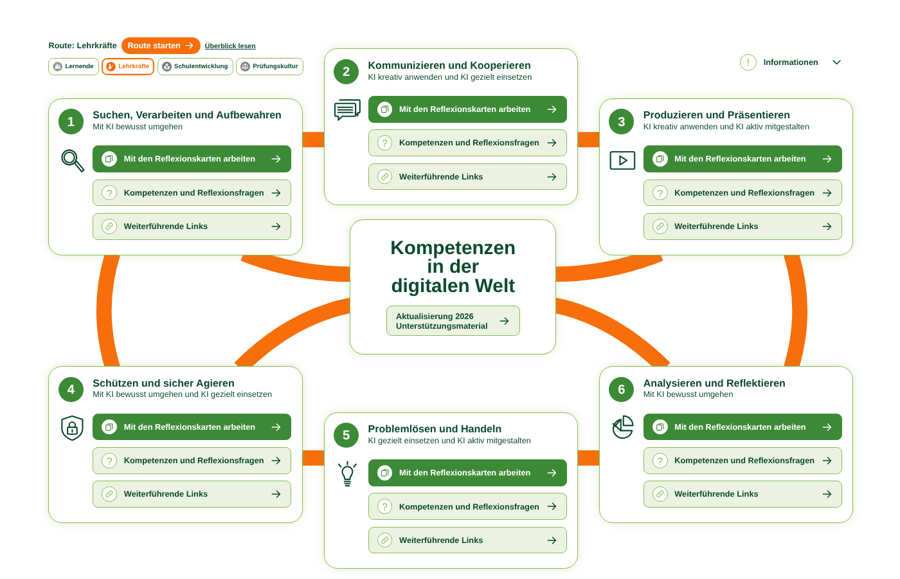
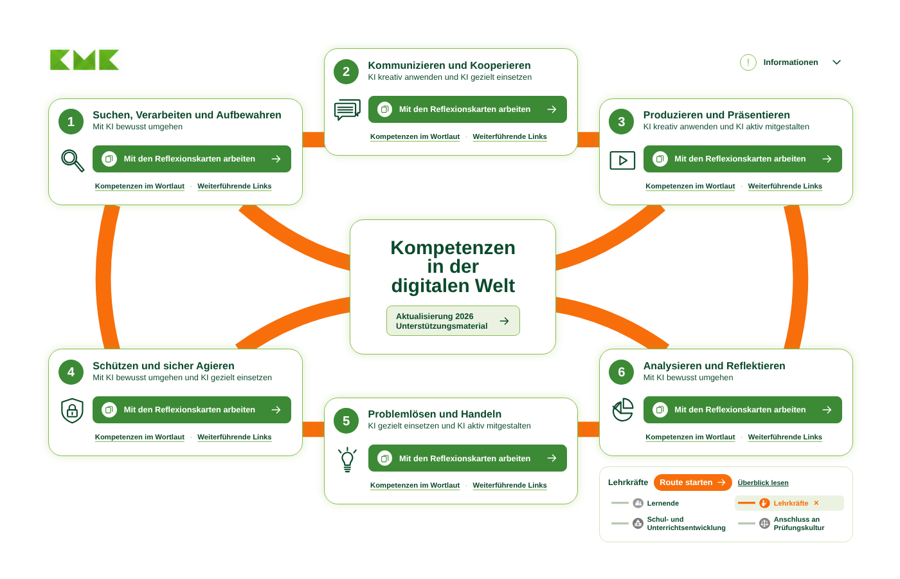
Inseln: ein Hauptbutton, darunter „Kompetenzen im Wortlaut“ und „Weiterführende Links“
Inseln wieder flacher, Wege angepasst; Anleitung und Informationen aktualisiert.

Claude-Session: https://claude.ai/code/session_012zyzsmAj4NRycghpwKmJHP

diff --git a/index.html b/index.html
@@ -12,16 +12,16 @@
 <p class="wisch-hinweis">Tipp: Die Landkarte lässt sich seitlich verschieben.</p>
 <div class="karte-buehne">
 <div class="karte">
-  <svg class="stege" viewBox="0 0 2300 1580" aria-hidden="true">
+  <svg class="stege" viewBox="0 0 2300 1420" aria-hidden="true">
     <g class="ring">
-      <path d="M760 338H830M1480 338H1550M760 1170H830M1480 1170H1550"/>
-      <path d="M268 636Q222 785 268 935"/>
-      <path d="M2042 636Q2088 785 2042 935"/>
+      <path d="M760 338H830M1480 338H1550M760 1095H830M1480 1095H1550"/>
+      <path d="M268 508Q218 700 268 890"/>
+      <path d="M2042 508Q2092 700 2042 890"/>
     </g>
-    <path d="M610 636Q745 690 895 690"/>
-    <path d="M1700 636Q1565 690 1420 690"/>
-    <path d="M600 935Q735 800 895 770"/>
-    <path d="M1712 935Q1575 800 1420 770"/>
+    <path d="M610 508Q745 625 895 662"/>
+    <path d="M1700 508Q1565 625 1420 662"/>
+    <path d="M600 890Q735 792 895 768"/>
+    <path d="M1712 890Q1575 792 1420 768"/>
   </svg>
   <a class="kmk-logo" href="https://www.kmk.org" target="_blank" rel="noopener noreferrer"><img src="bilder/kmk-logo.png" alt="Kultusministerkonferenz"></a>
   <nav class="routen" aria-label="Routen durch alle Kompetenzbereiche">
@@ -51,8 +51,7 @@
     <span class="symbol"><svg viewBox="0 0 64 64" aria-hidden="true"><g fill="none" stroke="currentColor" stroke-width="3.2" stroke-linecap="round" stroke-linejoin="round"><circle cx="25" cy="25" r="17"/><circle cx="25" cy="25" r="12"/><path d="M37 38l5-4 17 20-5 4z"/></g></svg></span>
     <div class="knoepfe">
       <a class="knopf knopf-app" href="https://ingerfeldundlaube.github.io/KI-Kompetenzen/kompetenzbereich-1/"><span class="kreis" aria-hidden="true"><svg viewBox="0 0 24 24" aria-hidden="true"><g fill="none" stroke="currentColor" stroke-width="2" stroke-linejoin="round"><rect x="3" y="6" width="13" height="15" rx="2"/><path d="M8 3h11a2 2 0 0 1 2 2v13"/></g></svg></span><span class="beschriftung">Mit den Reflexionskarten arbeiten</span><svg class="pfeil" viewBox="0 0 32 32" aria-hidden="true"><path d="M4 16h22M17 7l9 9-9 9" fill="none" stroke="currentColor" stroke-width="2.6" stroke-linecap="round" stroke-linejoin="round"/></svg></a>
-      <a class="knopf" href="kompetenzbereich-1.html"><span class="kreis" aria-hidden="true">?</span><span class="beschriftung">Kompetenzen und Reflexionsfragen</span><svg class="pfeil" viewBox="0 0 32 32" aria-hidden="true"><path d="M4 16h22M17 7l9 9-9 9" fill="none" stroke="currentColor" stroke-width="2.6" stroke-linecap="round" stroke-linejoin="round"/></svg></a>
-      <a class="knopf" href="links-1.html"><span class="kreis" aria-hidden="true"><svg viewBox="0 0 24 24" aria-hidden="true"><g fill="none" stroke="currentColor" stroke-width="2" stroke-linecap="round"><path d="M10 14a4.5 4.5 0 0 0 6.4 0l3-3a4.5 4.5 0 0 0-6.4-6.4l-1 1"/><path d="M14 10a4.5 4.5 0 0 0-6.4 0l-3 3a4.5 4.5 0 0 0 6.4 6.4l1-1"/></g></svg></span><span class="beschriftung">Weiterführende Links</span><svg class="pfeil" viewBox="0 0 32 32" aria-hidden="true"><path d="M4 16h22M17 7l9 9-9 9" fill="none" stroke="currentColor" stroke-width="2.6" stroke-linecap="round" stroke-linejoin="round"/></svg></a>
+      <p class="textlinks"><a href="kompetenzbereich-1.html">Kompetenzen im Wortlaut</a><span aria-hidden="true">·</span><a href="links-1.html">Weiterführende Links</a></p>
     </div>
   </section>
   <section class="insel" style="--x:820;--y:100" aria-labelledby="kb2">
@@ -61,8 +60,7 @@
     <span class="symbol"><svg viewBox="0 0 64 64" aria-hidden="true"><g fill="none" stroke="currentColor" stroke-width="3.2" stroke-linecap="round" stroke-linejoin="round"><path d="M14 8h44a3 3 0 0 1 3 3v24a3 3 0 0 1-3 3h-2v7l-6-7"/><path d="M6 16h42a3 3 0 0 1 3 3v24a3 3 0 0 1-3 3H20l-9 9v-9H6a3 3 0 0 1-3-3V19a3 3 0 0 1 3-3z"/><path d="M10 25h34M10 31h34M10 37h34"/></g></svg></span>
     <div class="knoepfe">
       <a class="knopf knopf-app" href="https://ingerfeldundlaube.github.io/KI-Kompetenzen/kompetenzbereich-2/"><span class="kreis" aria-hidden="true"><svg viewBox="0 0 24 24" aria-hidden="true"><g fill="none" stroke="currentColor" stroke-width="2" stroke-linejoin="round"><rect x="3" y="6" width="13" height="15" rx="2"/><path d="M8 3h11a2 2 0 0 1 2 2v13"/></g></svg></span><span class="beschriftung">Mit den Reflexionskarten arbeiten</span><svg class="pfeil" viewBox="0 0 32 32" aria-hidden="true"><path d="M4 16h22M17 7l9 9-9 9" fill="none" stroke="currentColor" stroke-width="2.6" stroke-linecap="round" stroke-linejoin="round"/></svg></a>
-      <a class="knopf" href="kompetenzbereich-2.html"><span class="kreis" aria-hidden="true">?</span><span class="beschriftung">Kompetenzen und Reflexionsfragen</span><svg class="pfeil" viewBox="0 0 32 32" aria-hidden="true"><path d="M4 16h22M17 7l9 9-9 9" fill="none" stroke="currentColor" stroke-width="2.6" stroke-linecap="round" stroke-linejoin="round"/></svg></a>
-      <a class="knopf" href="links-2.html"><span class="kreis" aria-hidden="true"><svg viewBox="0 0 24 24" aria-hidden="true"><g fill="none" stroke="currentColor" stroke-width="2" stroke-linecap="round"><path d="M10 14a4.5 4.5 0 0 0 6.4 0l3-3a4.5 4.5 0 0 0-6.4-6.4l-1 1"/><path d="M14 10a4.5 4.5 0 0 0-6.4 0l-3 3a4.5 4.5 0 0 0 6.4 6.4l1-1"/></g></svg></span><span class="beschriftung">Weiterführende Links</span><svg class="pfeil" viewBox="0 0 32 32" aria-hidden="true"><path d="M4 16h22M17 7l9 9-9 9" fill="none" stroke="currentColor" stroke-width="2.6" stroke-linecap="round" stroke-linejoin="round"/></svg></a>
+      <p class="textlinks"><a href="kompetenzbereich-2.html">Kompetenzen im Wortlaut</a><span aria-hidden="true">·</span><a href="links-2.html">Weiterführende Links</a></p>
     </div>
   </section>
   <section class="insel" style="--x:1540;--y:230" aria-labelledby="kb3">
@@ -71,38 +69,34 @@
     <span class="symbol"><svg viewBox="0 0 64 64" aria-hidden="true"><g fill="none" stroke="currentColor" stroke-width="3.2" stroke-linecap="round" stroke-linejoin="round"><rect x="4" y="12" width="56" height="40" rx="3"/><path d="M26 22v20l16-10z"/></g></svg></span>
     <div class="knoepfe">
       <a class="knopf knopf-app" href="https://ingerfeldundlaube.github.io/KI-Kompetenzen/kompetenzbereich-3/"><span class="kreis" aria-hidden="true"><svg viewBox="0 0 24 24" aria-hidden="true"><g fill="none" stroke="currentColor" stroke-width="2" stroke-linejoin="round"><rect x="3" y="6" width="13" height="15" rx="2"/><path d="M8 3h11a2 2 0 0 1 2 2v13"/></g></svg></span><span class="beschriftung">Mit den Reflexionskarten arbeiten</span><svg class="pfeil" viewBox="0 0 32 32" aria-hidden="true"><path d="M4 16h22M17 7l9 9-9 9" fill="none" stroke="currentColor" stroke-width="2.6" stroke-linecap="round" stroke-linejoin="round"/></svg></a>
-      <a class="knopf" href="kompetenzbereich-3.html"><span class="kreis" aria-hidden="true">?</span><span class="beschriftung">Kompetenzen und Reflexionsfragen</span><svg class="pfeil" viewBox="0 0 32 32" aria-hidden="true"><path d="M4 16h22M17 7l9 9-9 9" fill="none" stroke="currentColor" stroke-width="2.6" stroke-linecap="round" stroke-linejoin="round"/></svg></a>
-      <a class="knopf" href="links-3.html"><span class="kreis" aria-hidden="true"><svg viewBox="0 0 24 24" aria-hidden="true"><g fill="none" stroke="currentColor" stroke-width="2" stroke-linecap="round"><path d="M10 14a4.5 4.5 0 0 0 6.4 0l3-3a4.5 4.5 0 0 0-6.4-6.4l-1 1"/><path d="M14 10a4.5 4.5 0 0 0-6.4 0l-3 3a4.5 4.5 0 0 0 6.4 6.4l1-1"/></g></svg></span><span class="beschriftung">Weiterführende Links</span><svg class="pfeil" viewBox="0 0 32 32" aria-hidden="true"><path d="M4 16h22M17 7l9 9-9 9" fill="none" stroke="currentColor" stroke-width="2.6" stroke-linecap="round" stroke-linejoin="round"/></svg></a>
+      <p class="textlinks"><a href="kompetenzbereich-3.html">Kompetenzen im Wortlaut</a><span aria-hidden="true">·</span><a href="links-3.html">Weiterführende Links</a></p>
     </div>
   </section>
-  <section class="insel" style="--x:100;--y:930" aria-labelledby="kb4">
+  <section class="insel" style="--x:100;--y:885" aria-labelledby="kb4">
     <span class="nummer" aria-hidden="true">4</span>
     <h2 id="kb4"><span class="nur-screenreader">Kompetenzbereich 4: </span>Schützen und sicher Agieren<span class="unterzeile">Mit KI bewusst umgehen und KI gezielt einsetzen</span></h2>
     <span class="symbol"><svg viewBox="0 0 64 64" aria-hidden="true"><g fill="none" stroke="currentColor" stroke-width="3.2" stroke-linecap="round" stroke-linejoin="round"><path d="M32 4l24 8v20c0 14-11 23-24 28C19 55 8 46 8 32V12z"/><rect x="21" y="30" width="22" height="16" rx="2"/><path d="M25 30v-5a7 7 0 0 1 14 0v5M32 36v5"/></g></svg></span>
     <div class="knoepfe">
       <a class="knopf knopf-app" href="https://ingerfeldundlaube.github.io/KI-Kompetenzen/kompetenzbereich-4/"><span class="kreis" aria-hidden="true"><svg viewBox="0 0 24 24" aria-hidden="true"><g fill="none" stroke="currentColor" stroke-width="2" stroke-linejoin="round"><rect x="3" y="6" width="13" height="15" rx="2"/><path d="M8 3h11a2 2 0 0 1 2 2v13"/></g></svg></span><span class="beschriftung">Mit den Reflexionskarten arbeiten</span><svg class="pfeil" viewBox="0 0 32 32" aria-hidden="true"><path d="M4 16h22M17 7l9 9-9 9" fill="none" stroke="currentColor" stroke-width="2.6" stroke-linecap="round" stroke-linejoin="round"/></svg></a>
-      <a class="knopf" href="kompetenzbereich-4.html"><span class="kreis" aria-hidden="true">?</span><span class="beschriftung">Kompetenzen und Reflexionsfragen</span><svg class="pfeil" viewBox="0 0 32 32" aria-hidden="true"><path d="M4 16h22M17 7l9 9-9 9" fill="none" stroke="currentColor" stroke-width="2.6" stroke-linecap="round" stroke-linejoin="round"/></svg></a>
-      <a class="knopf" href="links-4.html"><span class="kreis" aria-hidden="true"><svg viewBox="0 0 24 24" aria-hidden="true"><g fill="none" stroke="currentColor" stroke-width="2" stroke-linecap="round"><path d="M10 14a4.5 4.5 0 0 0 6.4 0l3-3a4.5 4.5 0 0 0-6.4-6.4l-1 1"/><path d="M14 10a4.5 4.5 0 0 0-6.4 0l-3 3a4.5 4.5 0 0 0 6.4 6.4l1-1"/></g></svg></span><span class="beschriftung">Weiterführende Links</span><svg class="pfeil" viewBox="0 0 32 32" aria-hidden="true"><path d="M4 16h22M17 7l9 9-9 9" fill="none" stroke="currentColor" stroke-width="2.6" stroke-linecap="round" stroke-linejoin="round"/></svg></a>
+      <p class="textlinks"><a href="kompetenzbereich-4.html">Kompetenzen im Wortlaut</a><span aria-hidden="true">·</span><a href="links-4.html">Weiterführende Links</a></p>
     </div>
   </section>
-  <section class="insel" style="--x:820;--y:1050" aria-labelledby="kb5">
+  <section class="insel" style="--x:820;--y:1012" aria-labelledby="kb5">
     <span class="nummer" aria-hidden="true">5</span>
     <h2 id="kb5"><span class="nur-screenreader">Kompetenzbereich 5: </span>Problemlösen und Handeln<span class="unterzeile">KI gezielt einsetzen und KI aktiv mitgestalten</span></h2>
     <span class="symbol"><svg viewBox="0 0 64 64" aria-hidden="true"><g fill="none" stroke="currentColor" stroke-width="3.2" stroke-linecap="round" stroke-linejoin="round"><path d="M32 4v7M12 10l5 6M52 10l-5 6"/><path d="M22 34a12 12 0 1 1 20 0c-3 4-4 7-4 11H26c0-4-1-7-4-11z"/><path d="M25 50h14M26 55h12M28 60h8"/></g></svg></span>
     <div class="knoepfe">
       <a class="knopf knopf-app" href="https://ingerfeldundlaube.github.io/KI-Kompetenzen/kompetenzbereich-5/"><span class="kreis" aria-hidden="true"><svg viewBox="0 0 24 24" aria-hidden="true"><g fill="none" stroke="currentColor" stroke-width="2" stroke-linejoin="round"><rect x="3" y="6" width="13" height="15" rx="2"/><path d="M8 3h11a2 2 0 0 1 2 2v13"/></g></svg></span><span class="beschriftung">Mit den Reflexionskarten arbeiten</span><svg class="pfeil" viewBox="0 0 32 32" aria-hidden="true"><path d="M4 16h22M17 7l9 9-9 9" fill="none" stroke="currentColor" stroke-width="2.6" stroke-linecap="round" stroke-linejoin="round"/></svg></a>
-      <a class="knopf" href="kompetenzbereich-5.html"><span class="kreis" aria-hidden="true">?</span><span class="beschriftung">Kompetenzen und Reflexionsfragen</span><svg class="pfeil" viewBox="0 0 32 32" aria-hidden="true"><path d="M4 16h22M17 7l9 9-9 9" fill="none" stroke="currentColor" stroke-width="2.6" stroke-linecap="round" stroke-linejoin="round"/></svg></a>
-      <a class="knopf" href="links-5.html"><span class="kreis" aria-hidden="true"><svg viewBox="0 0 24 24" aria-hidden="true"><g fill="none" stroke="currentColor" stroke-width="2" stroke-linecap="round"><path d="M10 14a4.5 4.5 0 0 0 6.4 0l3-3a4.5 4.5 0 0 0-6.4-6.4l-1 1"/><path d="M14 10a4.5 4.5 0 0 0-6.4 0l-3 3a4.5 4.5 0 0 0 6.4 6.4l1-1"/></g></svg></span><span class="beschriftung">Weiterführende Links</span><svg class="pfeil" viewBox="0 0 32 32" aria-hidden="true"><path d="M4 16h22M17 7l9 9-9 9" fill="none" stroke="currentColor" stroke-width="2.6" stroke-linecap="round" stroke-linejoin="round"/></svg></a>
+      <p class="textlinks"><a href="kompetenzbereich-5.html">Kompetenzen im Wortlaut</a><span aria-hidden="true">·</span><a href="links-5.html">Weiterführende Links</a></p>
     </div>
   </section>
-  <section class="insel" style="--x:1540;--y:930" aria-labelledby="kb6">
+  <section class="insel" style="--x:1540;--y:885" aria-labelledby="kb6">
     <span class="nummer" aria-hidden="true">6</span>
     <h2 id="kb6"><span class="nur-screenreader">Kompetenzbereich 6: </span>Analysieren und Reflektieren<span class="unterzeile">Mit KI bewusst umgehen</span></h2>
     <span class="symbol"><svg viewBox="0 0 64 64" aria-hidden="true"><g fill="none" stroke="currentColor" stroke-width="3.2" stroke-linecap="round" stroke-linejoin="round"><path d="M28 12A22 22 0 1 0 54 38H28z"/><path d="M34 4a22 22 0 0 1 22 22H34z"/><path d="M28 12l-14 16M28 38L10 22"/></g></svg></span>
     <div class="knoepfe">
       <a class="knopf knopf-app" href="https://ingerfeldundlaube.github.io/KI-Kompetenzen/kompetenzbereich-6/"><span class="kreis" aria-hidden="true"><svg viewBox="0 0 24 24" aria-hidden="true"><g fill="none" stroke="currentColor" stroke-width="2" stroke-linejoin="round"><rect x="3" y="6" width="13" height="15" rx="2"/><path d="M8 3h11a2 2 0 0 1 2 2v13"/></g></svg></span><span class="beschriftung">Mit den Reflexionskarten arbeiten</span><svg class="pfeil" viewBox="0 0 32 32" aria-hidden="true"><path d="M4 16h22M17 7l9 9-9 9" fill="none" stroke="currentColor" stroke-width="2.6" stroke-linecap="round" stroke-linejoin="round"/></svg></a>
-      <a class="knopf" href="kompetenzbereich-6.html"><span class="kreis" aria-hidden="true">?</span><span class="beschriftung">Kompetenzen und Reflexionsfragen</span><svg class="pfeil" viewBox="0 0 32 32" aria-hidden="true"><path d="M4 16h22M17 7l9 9-9 9" fill="none" stroke="currentColor" stroke-width="2.6" stroke-linecap="round" stroke-linejoin="round"/></svg></a>
-      <a class="knopf" href="links-6.html"><span class="kreis" aria-hidden="true"><svg viewBox="0 0 24 24" aria-hidden="true"><g fill="none" stroke="currentColor" stroke-width="2" stroke-linecap="round"><path d="M10 14a4.5 4.5 0 0 0 6.4 0l3-3a4.5 4.5 0 0 0-6.4-6.4l-1 1"/><path d="M14 10a4.5 4.5 0 0 0-6.4 0l-3 3a4.5 4.5 0 0 0 6.4 6.4l1-1"/></g></svg></span><span class="beschriftung">Weiterführende Links</span><svg class="pfeil" viewBox="0 0 32 32" aria-hidden="true"><path d="M4 16h22M17 7l9 9-9 9" fill="none" stroke="currentColor" stroke-width="2.6" stroke-linecap="round" stroke-linejoin="round"/></svg></a>
+      <p class="textlinks"><a href="kompetenzbereich-6.html">Kompetenzen im Wortlaut</a><span aria-hidden="true">·</span><a href="links-6.html">Weiterführende Links</a></p>
     </div>
   </section>
   <section class="mitte" aria-labelledby="titel">

diff --git a/informationen.html b/informationen.html
@@ -27,7 +27,8 @@
 
 <h2 class="abschnitt">Aufbau der Landkarte</h2>
 <ul class="kachel-liste">
-  <li class="kachel" style="grid-template-columns:48px 1fr"><span class="kreis" aria-hidden="true">?</span><span><strong>Kompetenzen und Reflexionsfragen</strong><span class="zusatz">Alle Kompetenzbeschreibungen eines Bereichs im Wortlaut des Beschlusses, dazu je Teilbereich eine Reflexionsfrage.</span></span></li>
+  <li class="kachel" style="grid-template-columns:48px 1fr"><span class="kreis"><svg viewBox="0 0 24 24" aria-hidden="true"><g fill="none" stroke="currentColor" stroke-width="2" stroke-linejoin="round"><rect x="3" y="6" width="13" height="15" rx="2"/><path d="M8 3h11a2 2 0 0 1 2 2v13"/></g></svg></span><span><strong>Mit den Reflexionskarten arbeiten</strong><span class="zusatz">Auf jeder Insel: die Reflexionskarten dieses Kompetenzbereichs als eigene Anwendung.</span></span></li>
+  <li class="kachel" style="grid-template-columns:48px 1fr"><span class="kreis" aria-hidden="true">?</span><span><strong>Kompetenzen im Wortlaut</strong><span class="zusatz">Alle Kompetenzbeschreibungen eines Bereichs im Wortlaut des Beschlusses, dazu je Teilbereich eine Reflexionsfrage.</span></span></li>
   <li class="kachel" style="grid-template-columns:48px 1fr"><span class="kreis" aria-hidden="true"><svg viewBox="0 0 24 24" aria-hidden="true"><g fill="none" stroke="currentColor" stroke-width="2" stroke-linecap="round"><path d="M10 14a4.5 4.5 0 0 0 6.4 0l3-3a4.5 4.5 0 0 0-6.4-6.4l-1 1"/><path d="M14 10a4.5 4.5 0 0 0-6.4 0l-3 3a4.5 4.5 0 0 0 6.4 6.4l1-1"/></g></svg></span><span><strong>Weiterführende Links</strong><span class="zusatz">Ausgewählte Angebote zur Weiterarbeit im jeweiligen Kompetenzbereich.</span></span></li>
   <li class="kachel" style="grid-template-columns:48px 1fr"><span class="kreis"><svg viewBox="0 0 24 24" aria-hidden="true"><g fill="none" stroke="currentColor" stroke-width="2" stroke-linejoin="round"><path d="M6 2.5h8l5 5V21.5H6z"/><path d="M14 2.5v5h5M9 12h7M9 15.5h7M9 19h4"/></g></svg></span><span><strong>Aktualisierung 2026 – Unterstützungsmaterial</strong><span class="zusatz">In der Mitte der Landkarte: der Kompetenzrahmen und die Reflexionskarten.</span></span></li>
 </ul>

diff --git a/style.css b/style.css
@@ -51,7 +51,7 @@ a { color: var(--gruen-dunkel); }
   --u: calc(100cqw / 2300);
   position: relative;
   width: 100%;
-  aspect-ratio: 2300 / 1580;
+  aspect-ratio: 2300 / 1420;
 }
 
 .stege {
@@ -66,7 +66,7 @@ a { color: var(--gruen-dunkel); }
   left:  calc(var(--x) * var(--u));
   top:   calc(var(--y) * var(--u));
   width: calc(665 * var(--u));
-  height: calc(410 * var(--u));
+  height: calc(280 * var(--u));
   background: var(--weiss);
   border: calc(3 * var(--u)) solid var(--gruen-rand);
   border-radius: calc(36 * var(--u));
@@ -437,7 +437,7 @@ h2.abschnitt { color: var(--gruen-dunkel); font-size: 22px; margin: 36px 0 14px;
    --------------------------------------------------------- */
 .routen {
   position: absolute;
-  left: calc(1540 * var(--u)); top: calc(1372 * var(--u));
+  left: calc(1540 * var(--u)); top: calc(1192 * var(--u));
   width: calc(665 * var(--u));
   padding: calc(18 * var(--u)) calc(22 * var(--u)) calc(20 * var(--u));
   background: var(--weiss);
@@ -584,3 +584,13 @@ h2.abschnitt { color: var(--gruen-dunkel); font-size: 22px; margin: 36px 0 14px;
   background: var(--gruen-mittel); color: var(--weiss); font-size: 13px;
 }
 .kreis.ais { font-weight: 700; font-size: 15px; color: var(--gruen-mittel); }
+
+/* Inseln: ein Hauptbutton, darunter zwei Textlinks */
+.textlinks {
+  display: flex; flex-wrap: wrap; align-items: center; gap: calc(6 * var(--u)) calc(14 * var(--u));
+  margin: calc(4 * var(--u)) 0 0; padding-left: calc(6 * var(--u));
+  font-size: calc(19 * var(--u)); color: var(--gruen-dunkel);
+}
+.textlinks a { font-weight: 700; color: var(--gruen-dunkel); text-decoration: underline; text-decoration-color: var(--gruen-rand); text-underline-offset: calc(5 * var(--u)); }
+.textlinks a:hover, .textlinks a:focus-visible { text-decoration-color: var(--gruen-dunkel); }
+.textlinks span { color: var(--gruen-rand); }

diff --git a/anleitung.html b/anleitung.html
@@ -46,7 +46,7 @@
   </li>
   <li class="schritt">
     <img src="bilder/schritt-2.png" alt="" loading="lazy">
-    <div><span class="schritt-nr">2</span><h2>Kompetenzen und Reflexionsfragen lesen</h2><p>Über „Kompetenzen und Reflexionsfragen“ öffnen Sie alle Kompetenzbeschreibungen des Bereichs im Wortlaut des Beschlusses, zu jedem Teilbereich mit einer Reflexionsfrage.</p></div>
+    <div><span class="schritt-nr">2</span><h2>Kompetenzen im Wortlaut lesen</h2><p>Unter dem Button jeder Insel öffnet „Kompetenzen im Wortlaut“ alle Kompetenzbeschreibungen des Bereichs aus dem Beschluss, zu jedem Teilbereich mit einer Reflexionsfrage.</p></div>
   </li>
   <li class="schritt">
     <img src="bilder/schritt-3.png" alt="" loading="lazy">
@@ -54,7 +54,7 @@
   </li>
   <li class="schritt">
     <img src="bilder/schritt-4.png" alt="" loading="lazy">
-    <div><span class="schritt-nr">4</span><h2>Weiterführende Links nutzen</h2><p>Unter „Weiterführende Links“ finden Sie ausgewählte Angebote zur Weiterarbeit im jeweiligen Kompetenzbereich.</p></div>
+    <div><span class="schritt-nr">4</span><h2>Weiterführende Links nutzen</h2><p>Ebenfalls unter dem Button: „Weiterführende Links“ mit ausgewählten Angeboten zur Weiterarbeit im jeweiligen Kompetenzbereich.</p></div>
   </li>
   <li class="schritt">
     <img src="bilder/schritt-6.png" alt="" loading="lazy">

diff --git a/kompetenzbereich-3.html b/kompetenzbereich-3.html
@@ -3,7 +3,7 @@
 <head>
 <meta charset="utf-8">
 <meta name="viewport" content="width=device-width, initial-scale=1">
-<title>3 Produzieren und Präsentieren – Kompetenzen und Reflexionsfragen</title>
+<title>3 Produzieren und Präsentieren – Kompetenzen im Wortlaut</title>
 <meta name="description" content="Kompetenzbereich 3: Produzieren und Präsentieren – KI kreativ anwenden und KI aktiv mitgestalten">
 <link rel="stylesheet" href="style.css">
 </head>
@@ -13,7 +13,7 @@
 <header class="kopf">
   <span class="nummer" aria-hidden="true">3</span>
   <div>
-    <div class="rubrik">Kompetenzen und Reflexionsfragen</div>
+    <div class="rubrik">Kompetenzen im Wortlaut</div>
     <h1><span class="nur-screenreader">Kompetenzbereich 3: </span>Produzieren und Präsentieren</h1>
     <p class="unterzeile">KI kreativ anwenden und KI aktiv mitgestalten</p>
   </div>

diff --git a/kompetenzbereich-4.html b/kompetenzbereich-4.html
@@ -3,7 +3,7 @@
 <head>
 <meta charset="utf-8">
 <meta name="viewport" content="width=device-width, initial-scale=1">
-<title>4 Schützen und sicher Agieren – Kompetenzen und Reflexionsfragen</title>
+<title>4 Schützen und sicher Agieren – Kompetenzen im Wortlaut</title>
 <meta name="description" content="Kompetenzbereich 4: Schützen und sicher Agieren – Mit KI bewusst umgehen und KI gezielt einsetzen">
 <link rel="stylesheet" href="style.css">
 </head>
@@ -13,7 +13,7 @@
 <header class="kopf">
   <span class="nummer" aria-hidden="true">4</span>
   <div>
-    <div class="rubrik">Kompetenzen und Reflexionsfragen</div>
+    <div class="rubrik">Kompetenzen im Wortlaut</div>
     <h1><span class="nur-screenreader">Kompetenzbereich 4: </span>Schützen und sicher Agieren</h1>
     <p class="unterzeile">Mit KI bewusst umgehen und KI gezielt einsetzen</p>
   </div>

diff --git a/kompetenzbereich-2.html b/kompetenzbereich-2.html
@@ -3,7 +3,7 @@
 <head>
 <meta charset="utf-8">
 <meta name="viewport" content="width=device-width, initial-scale=1">
-<title>2 Kommunizieren und Kooperieren – Kompetenzen und Reflexionsfragen</title>
+<title>2 Kommunizieren und Kooperieren – Kompetenzen im Wortlaut</title>
 <meta name="description" content="Kompetenzbereich 2: Kommunizieren und Kooperieren – KI kreativ anwenden und KI gezielt einsetzen">
 <link rel="stylesheet" href="style.css">
 </head>
@@ -13,7 +13,7 @@
 <header class="kopf">
   <span class="nummer" aria-hidden="true">2</span>
   <div>
-    <div class="rubrik">Kompetenzen und Reflexionsfragen</div>
+    <div class="rubrik">Kompetenzen im Wortlaut</div>
     <h1><span class="nur-screenreader">Kompetenzbereich 2: </span>Kommunizieren und Kooperieren</h1>
     <p class="unterzeile">KI kreativ anwenden und KI gezielt einsetzen</p>
   </div>

diff --git a/kompetenzbereich-5.html b/kompetenzbereich-5.html
@@ -3,7 +3,7 @@
 <head>
 <meta charset="utf-8">
 <meta name="viewport" content="width=device-width, initial-scale=1">
-<title>5 Problemlösen und Handeln – Kompetenzen und Reflexionsfragen</title>
+<title>5 Problemlösen und Handeln – Kompetenzen im Wortlaut</title>
 <meta name="description" content="Kompetenzbereich 5: Problemlösen und Handeln – KI gezielt einsetzen und KI aktiv mitgestalten">
 <link rel="stylesheet" href="style.css">
 </head>
@@ -13,7 +13,7 @@
 <header class="kopf">
   <span class="nummer" aria-hidden="true">5</span>
   <div>
-    <div class="rubrik">Kompetenzen und Reflexionsfragen</div>
+    <div class="rubrik">Kompetenzen im Wortlaut</div>
     <h1><span class="nur-screenreader">Kompetenzbereich 5: </span>Problemlösen und Handeln</h1>
     <p class="unterzeile">KI gezielt einsetzen und KI aktiv mitgestalten</p>
   </div>

diff --git a/kompetenzbereich-1.html b/kompetenzbereich-1.html
@@ -3,7 +3,7 @@
 <head>
 <meta charset="utf-8">
 <meta name="viewport" content="width=device-width, initial-scale=1">
-<title>1 Suchen, Verarbeiten und Aufbewahren – Kompetenzen und Reflexionsfragen</title>
+<title>1 Suchen, Verarbeiten und Aufbewahren – Kompetenzen im Wortlaut</title>
 <meta name="description" content="Kompetenzbereich 1: Suchen, Verarbeiten und Aufbewahren – Mit KI bewusst umgehen">
 <link rel="stylesheet" href="style.css">
 </head>
@@ -13,7 +13,7 @@
 <header class="kopf">
   <span class="nummer" aria-hidden="true">1</span>
   <div>
-    <div class="rubrik">Kompetenzen und Reflexionsfragen</div>
+    <div class="rubrik">Kompetenzen im Wortlaut</div>
     <h1><span class="nur-screenreader">Kompetenzbereich 1: </span>Suchen, Verarbeiten und Aufbewahren</h1>
     <p class="unterzeile">Mit KI bewusst umgehen</p>
   </div>

diff --git a/kompetenzbereich-6.html b/kompetenzbereich-6.html
@@ -3,7 +3,7 @@
 <head>
 <meta charset="utf-8">
 <meta name="viewport" content="width=device-width, initial-scale=1">
-<title>6 Analysieren und Reflektieren – Kompetenzen und Reflexionsfragen</title>
+<title>6 Analysieren und Reflektieren – Kompetenzen im Wortlaut</title>
 <meta name="description" content="Kompetenzbereich 6: Analysieren und Reflektieren – Mit KI bewusst umgehen">
 <link rel="stylesheet" href="style.css">
 </head>
@@ -13,7 +13,7 @@
 <header class="kopf">
   <span class="nummer" aria-hidden="true">6</span>
   <div>
-    <div class="rubrik">Kompetenzen und Reflexionsfragen</div>
+    <div class="rubrik">Kompetenzen im Wortlaut</div>
     <h1><span class="nur-screenreader">Kompetenzbereich 6: </span>Analysieren und Reflektieren</h1>
     <p class="unterzeile">Mit KI bewusst umgehen</p>
   </div>

diff --git a/links-2.html b/links-2.html
@@ -39,7 +39,7 @@
 
 <div class="platzhalter">
   <p><strong>Hier folgen in Kürze weiterführende Links zum Kompetenzbereich 2.</strong></p>
-  <p><a href="kompetenzbereich-2.html">Zu den Kompetenzen und Reflexionsfragen dieses Bereichs</a></p>
+  <p><a href="kompetenzbereich-2.html">Zu den Kompetenzen dieses Bereichs im Wortlaut</a></p>
 </div>
 
 <nav class="blaettern" aria-label="Kompetenzbereiche"><a href="links-1.html">← Bereich 1</a><a href="links-3.html">Bereich 3 →</a></nav>

diff --git a/links-3.html b/links-3.html
@@ -39,7 +39,7 @@
 
 <div class="platzhalter">
   <p><strong>Hier folgen in Kürze weiterführende Links zum Kompetenzbereich 3.</strong></p>
-  <p><a href="kompetenzbereich-3.html">Zu den Kompetenzen und Reflexionsfragen dieses Bereichs</a></p>
+  <p><a href="kompetenzbereich-3.html">Zu den Kompetenzen dieses Bereichs im Wortlaut</a></p>
 </div>
 
 <nav class="blaettern" aria-label="Kompetenzbereiche"><a href="links-2.html">← Bereich 2</a><a href="links-4.html">Bereich 4 →</a></nav>
